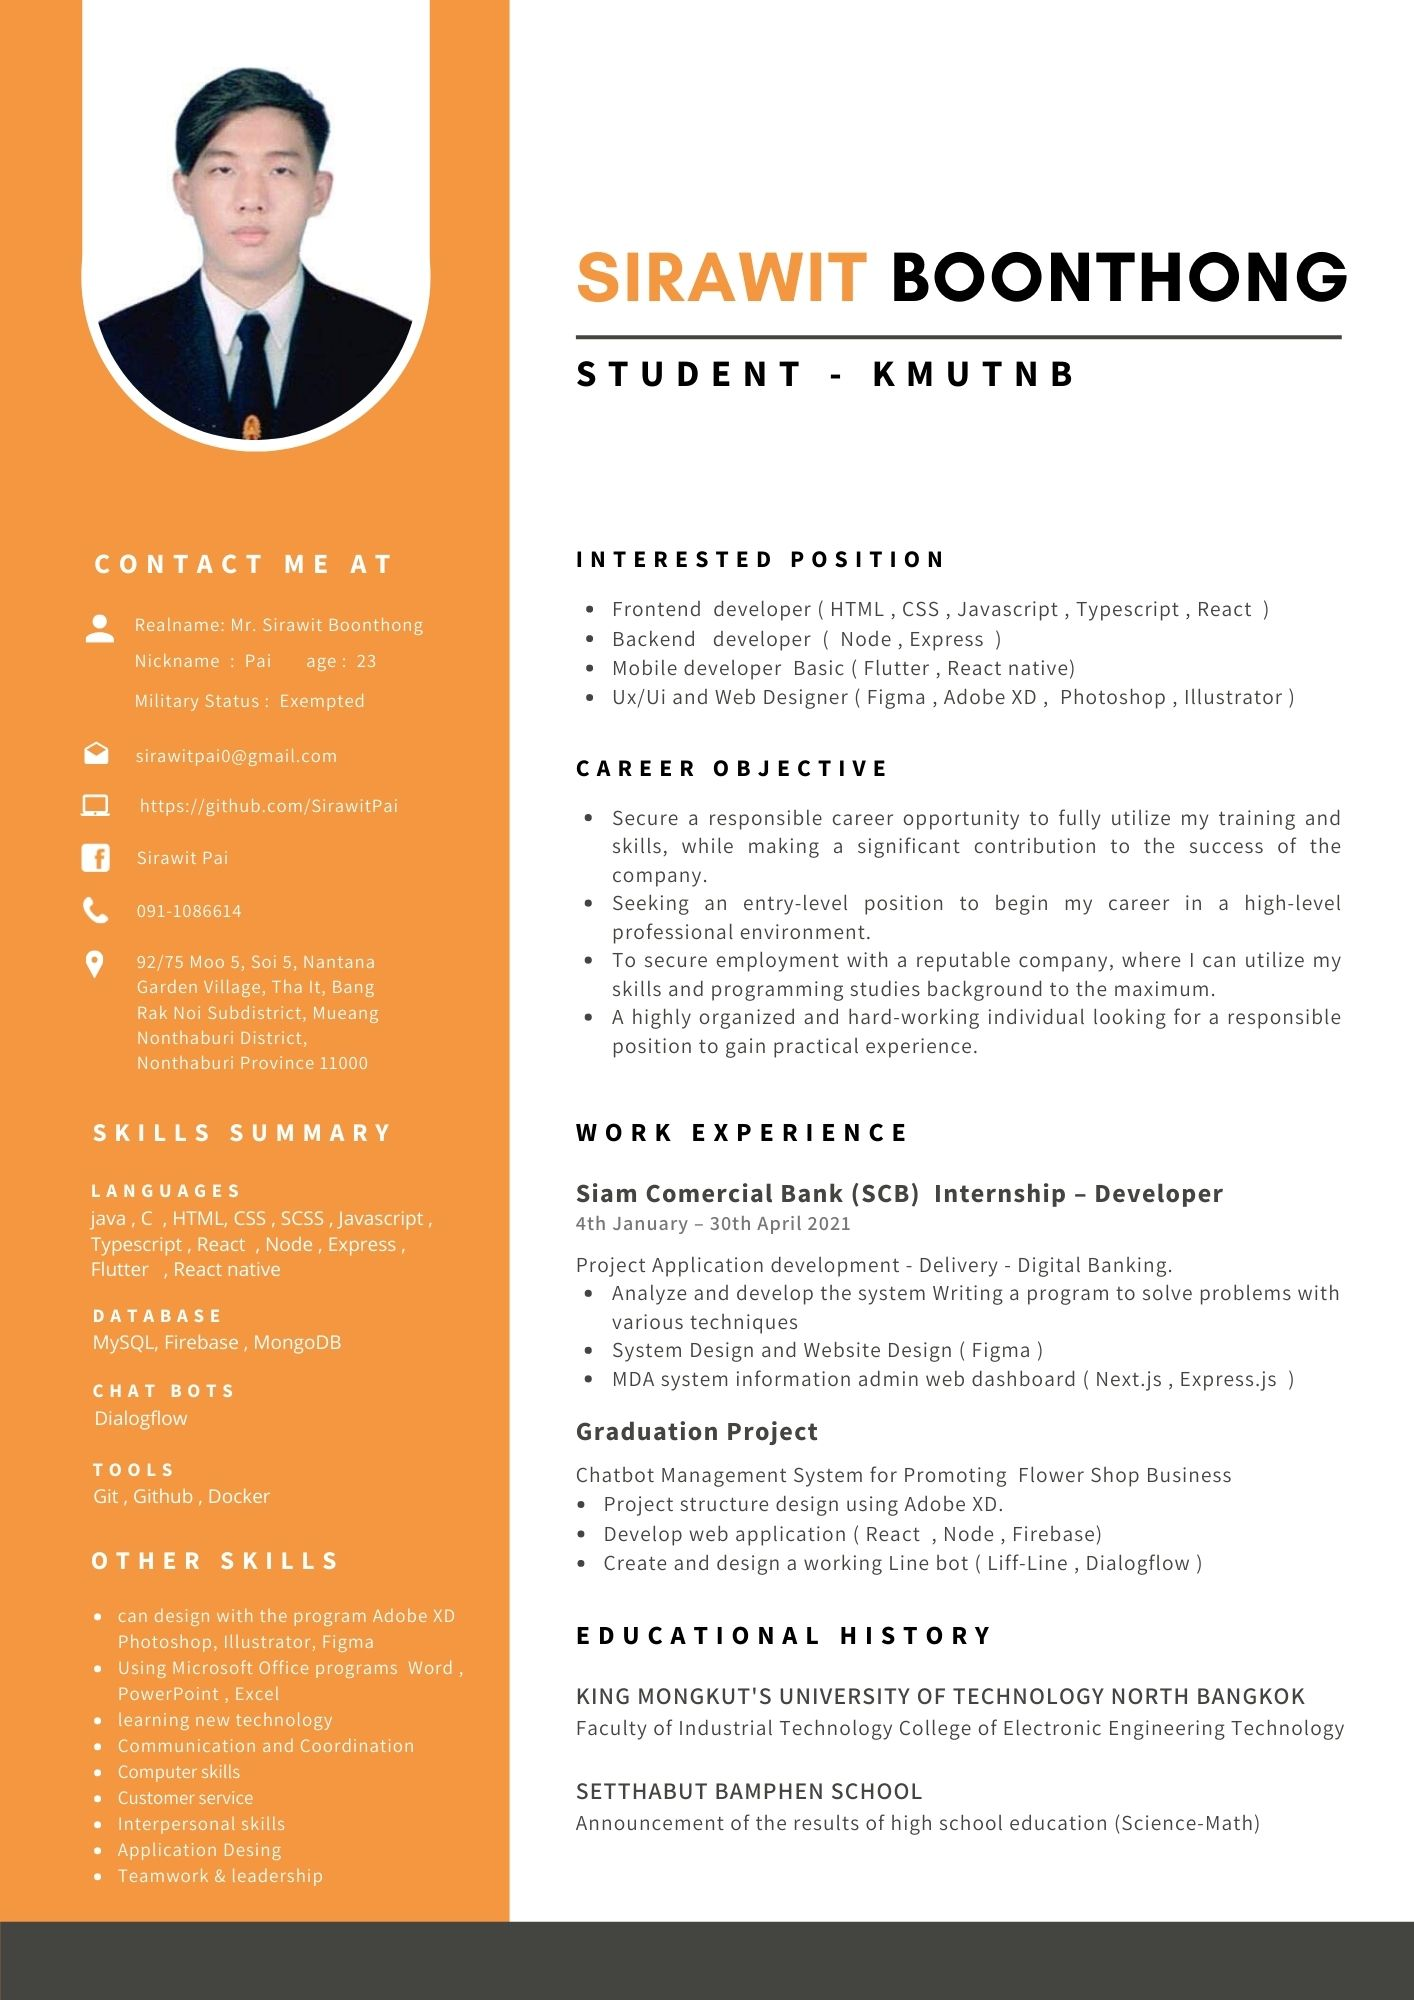
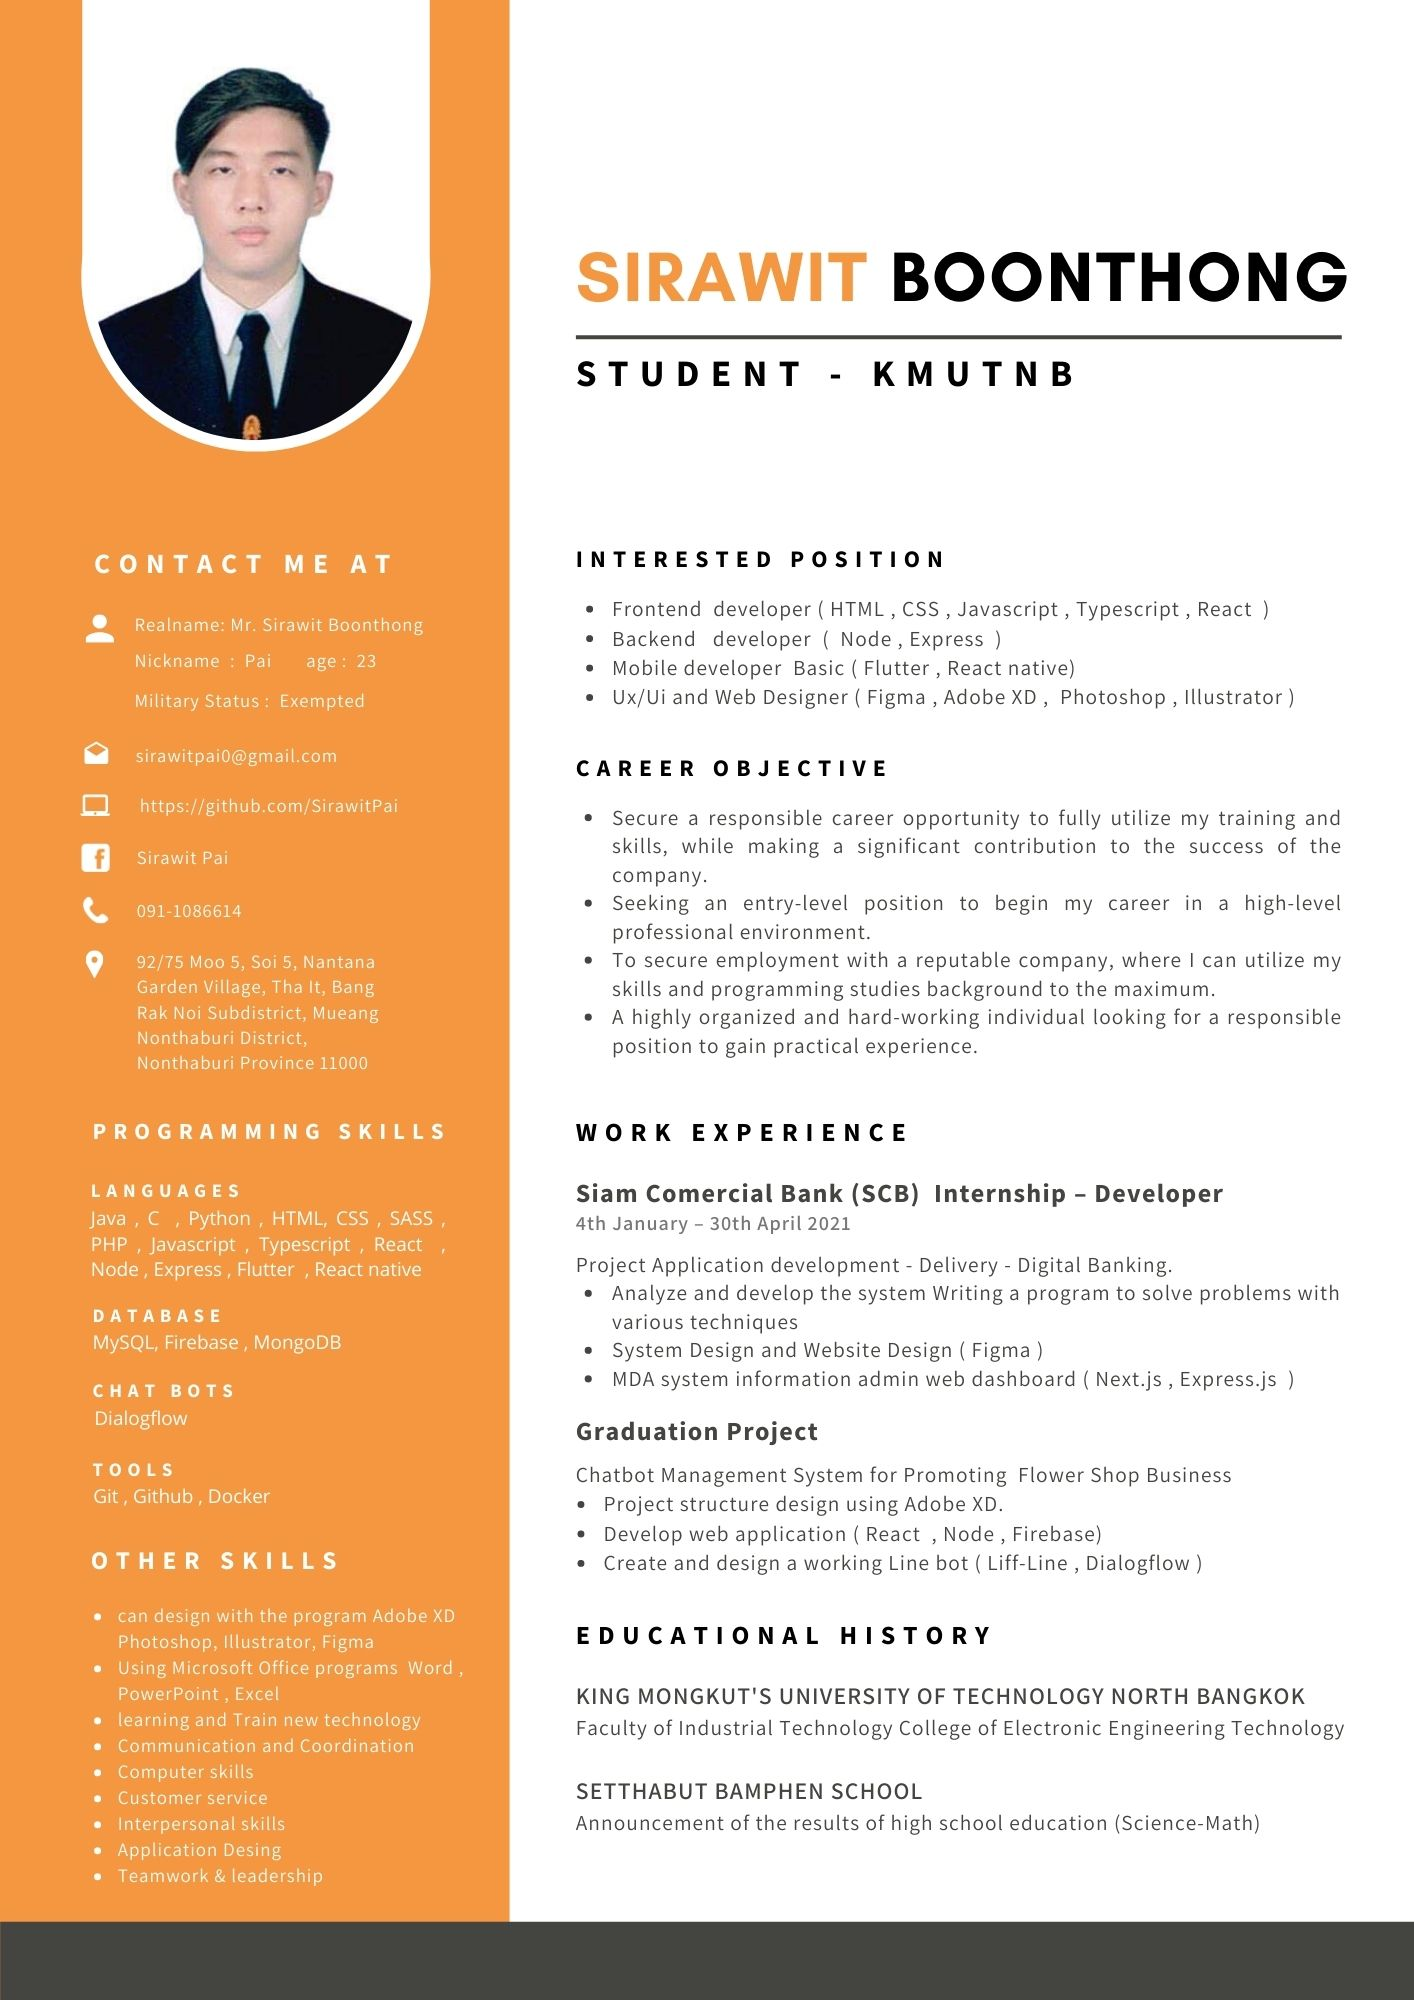
Add files via upload

Changed region(s): [[0.0622, 0.558, 0.3112, 0.651], [0.0934, 0.837, 0.3112, 0.899]]

diff --git a/index.html b/index.html
@@ -84,6 +84,8 @@
     <main class="l-main">
       <!--===== HOME =====-->
       <section class="home bd-grid" id="home">
+
+
         <div class="home__data">
           <h1 class="home__title">
             Hello,<br />I'am <span class="home__title-color">Sirawit Pai</span
@@ -96,7 +98,7 @@
             Mr. Sirawit Boonthong, you can see the details through my size web
             page.
           </p>
-          <a href="#" class="button">Contact</a>
+          <a href="#about" class="button">Contact</a>
         </div>
 
         <div class="home__social">
@@ -106,7 +108,7 @@
             ><i class="bx bxl-facebook"></i
           ></a>
           <a
-            href="https://timeline.line.me/user/_dXe3MazhyAyrKaYb8WUee4veK4rE5MQydci3LLc"
+            href="https://github.com/SirawitPai?fbclid=IwAR2_CwTrq45c6h0NRoOQVhpPxeptywy-CHJDHMM7h4a8qMLfyT7QlFG1_54"
             class="home__social-icon"
             ><i class="fab fa-line"></i
           ></a>
@@ -127,6 +129,7 @@
             ><i class="bx bxl-github"></i
           ></a>
         </div>
+
         <div class="home__img">
           <img
             data-tilt
@@ -135,6 +138,7 @@
             class="img-fluid"
           />
         </div>
+
       </section>
 
       <a href="#home" class="back-to-top">
@@ -142,7 +146,9 @@
       </a>
 
       <!-----service section start----------->
+      
       <div class="service">
+        
         <div class="title">
           <h2>Job <span>position </span> interested</h2>
         </div>
@@ -176,7 +182,7 @@
               </p>
 
               <h3 class="about2">
-                Hello, My Name Sirawit Boonthong <br/> Full Stack Developer (Joint)
+                Hello, My Name Sirawit Boonthong <br/>Stack Developer (Joint)
               </h3>
               <p class="about3">
                 I just graduated from King Mongkut's University of Technology
@@ -206,12 +212,14 @@
             </h3>
             <span class="skills__name">HTML<i class="fab fa-html5"></i></span>
             <span class="skills__name">CSS<i class="fab fa-css3-alt"></i></span>
-            <span class="skills__name">SCSS<i class="fab fa-sass"></i></span>
+            <span class="skills__name">SASS<i class="fab fa-sass"></i></span>
+            <span class="skills__name">PHP<i class="fab fa-php"></i></span>
             <span class="skills__name">Javascript<i class="fab fa-js-square"></i></span>
             <span class="skills__name">Typescript</span>
             <span class="skills__name">React<i class="fab fa-react"></i></span>
             <span class="skills__name">Java<i class="fab fa-java"></i></span>
             <span class="skills__name"><i class="fab fa-cuttlefish"></i></span>
+            <span class="skills__name">python<i class="fab fa-python"></i></span>
 
             <span class="skills__name">Node<i class="fab fa-node-js"></i></span>
             <span class="skills__name">Express</span>
@@ -257,7 +265,7 @@
             <img src="assets/img/work3.jpg" alt="" />
           </div>
           <div class="work__img">
-            <img src="assets/img/work4.JPG" alt="" />
+            <img src="assets/img/work4.jpg" alt="" />
           </div>
           <div class="work__img">
             <img src="assets/img/work5.jpg" alt="" />
@@ -279,12 +287,7 @@
           </div>
           <div class="right">
             <form>
-              <input
-                type="text"
-                name="email"
-                id="email"
-                placeholder="Your email"
-              />
+             
               <a href="contact.html" class="button">contact</a>
             </form>
           </div>
@@ -296,7 +299,7 @@
         <div class="container">
           <div class="menu grid">
             <div class="logo">
-              <h2><b>SWAP</b><span><b>PAI</b></span></h2>
+              <h2>SWAP<span>PAI</span></h2>
               <p>
                 Thank you for visiting my website.
               </p>
@@ -319,6 +322,11 @@
 
       </footer>
     </div>
+
+    <!-- Option 1: Bootstrap Bundle with Popper -->
+    <script src="https://cdn.jsdelivr.net/npm/bootstrap@5.0.2/dist/js/bootstrap.bundle.min.js"
+      integrity="sha384-MrcW6ZMFYlzcLA8Nl+NtUVF0sA7MsXsP1UyJoMp4YLEuNSfAP+JcXn/tWtIaxVXM" crossorigin="anonymous"></script>
+    
     <!--========== SCROLL REVEAL ==========-->
     <script src="https://unpkg.com/scrollreveal"></script>
 

diff --git a/About.html b/About.html
@@ -143,7 +143,7 @@
                 <li>
                   Using Microsoft Office programs Word , PowerPoint , Excel
                 </li>
-                <li>learning new technology</li>
+                <li>learning and Train new technology</li>
                 <li>Communication and Coordination</li>
                 <li>Computer skills</li>
                 <li>Customer service</li>
@@ -171,7 +171,7 @@
               />
             </div>
             <div class="getapp-content">
-              <h2>My <span>resume </span></h2>
+              <h2><b>My</b> <span><b>resume</b> </span></h2>
               <p>
                 You can look at my resume. If you are interested in reading more
                 details, press the button to download. resume document

diff --git a/assets/css/styles.css b/assets/css/styles.css
@@ -11,7 +11,7 @@
 :root {
   --first-color: #f49740;
   --first-color2: #f77f00;
-  --second-color: #0e2431;
+  --second-color: #2e2e2e;
   --white: #fff;
   --black: #222;
   --grey: #444;
